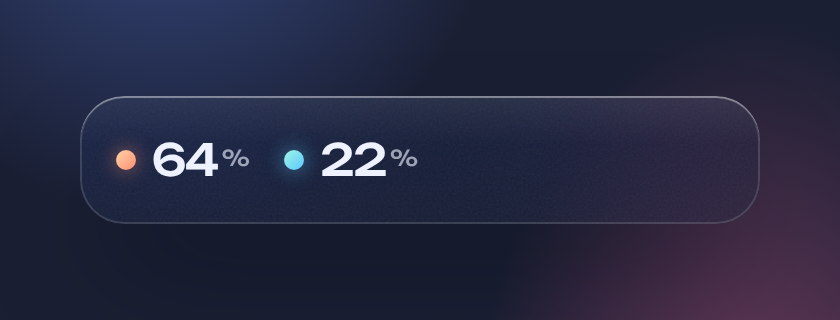
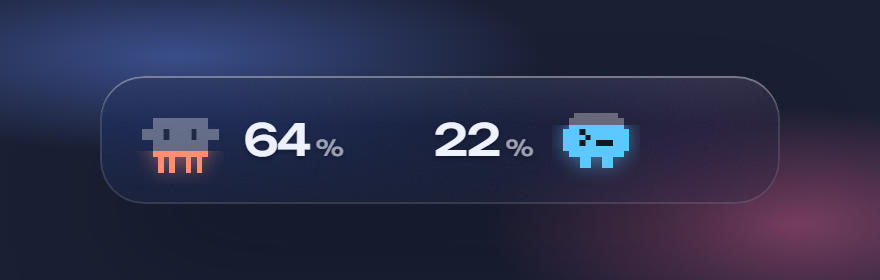
Readable README, friendlier installer, current screenshots
- README rewritten for someone new: what it shows, how to install (release
  or from source, with exact winget commands), how to use it, what it needs
  from your accounts, privacy table and troubleshooting.
- install.ps1 adds ~/.cargo/bin to PATH, checks Node, Rust and the C++
  build tools with the exact command for each, and closes a running copy.
- New screenshots from the mock data (?compact=1 opens the preview folded).
- AGENTS.md describes the current state and rules.

Changed region(s): [[0.0, 0.0857, 0.8667, 0.6857], [0.1238, 0.5714, 1.0, 0.8857], [0.8667, 0.3143, 0.8976, 0.4]]

diff --git a/src/main.ts b/src/main.ts
@@ -15,7 +15,9 @@ const KIND_LABEL = { codex: "Codex", "codex-sub": "Subagente de Codex", "claude-
 
 const root = document.getElementById("app")!;
 let last: Snapshot | null = null;
-let compact = false;
+// `?compact=1` opens the browser preview already folded (used for README screenshots).
+let compact = new URLSearchParams(location.search).has("compact");
+if (compact) document.body.classList.add("compact");
 let firstPaint = true;
 
 // Which environment tab is open ("all" or an environment id), remembered per viewer.

diff --git a/README.md b/README.md
@@ -1,76 +1,130 @@
 # Agent Gauge
 
-Un widget de escritorio de cristal ahumado, siempre visible, que muestra cuánto te queda en **Claude Code** y en **Codex**, y qué sesiones de ambos están corriendo ahora mismo en tu ordenador.
+Un widget de escritorio, siempre visible y de cristal esmerilado, para quien trabaja con **Claude Code** y **Codex** a la vez. Te dice de un vistazo cuánto te queda en cada cuenta y qué agentes están trabajando ahora mismo, en tu ordenador, en tus servidores por SSH y en la nube.
 
-![Vista normal, cerca del límite y sin datos](docs/preview.png)
+<p align="center">
+  <img src="docs/preview.png" alt="Agent Gauge: uso de Claude Code y Codex, y proyectos con sus agentes" width="400">
+</p>
 
-![Modo compacto](docs/preview-compact.png)
+<p align="center">
+  <img src="docs/preview-compact.png" alt="Modo compacto: cada bichito se rellena con lo que te queda" width="400">
+</p>
 
-## Qué enseña
+## Qué te enseña
 
-- **Un medidor por cuenta.** Muestra el % usado de la sesión de 5 horas, cuándo se renueva y el % del límite semanal.
-- **Proyección de ritmo.** La línea punteada sobre el arco marca dónde acabarás al renovarse la sesión si sigues al ritmo actual. Si vas camino de pasarte, el arco se vuelve rojo y te dice en cuánto tiempo llegarás al límite.
-- **Tokens de las últimas 5 horas**, contados a partir de los registros locales.
-- **Sesiones en marcha.** Cada `claude` o `codex` abierto aparece con su carpeta, su CPU y cuánto tiempo lleva. El punto late cuando la sesión está trabajando.
-- **Modo compacto.** El botón ⌃ (visible al pasar el ratón) reduce el widget a una píldora con los dos porcentajes.
-
-El widget se arrastra desde la parte superior. Se oculta con ✕ y vuelve con el icono de la barra de menús o de la bandeja, donde también puedes activar **Abrir al iniciar sesión**.
+- **Cuánto has gastado** de la sesión de 5 horas de Claude Code y de Codex, cuándo se renueva y, al pasar el ratón, el límite semanal, los tokens y el ritmo que llevas. Si a este ritmo vas a llegar al límite antes de la renovación, el arco se pone rojo y te dice cuándo.
+- **Tus proyectos activos**, cada uno con su "jefe" (el chat de Claude que manda) y su "cuadrilla" (los Codex y subagentes que ha lanzado). Mientras trabajan, el jefe da latigazos de dibujos animados y la cuadrilla suda. Al pasar el ratón ves quién es quién.
+- **Dónde corre cada cosa**, con pestañas: este PC, cada servidor al que entras por SSH y la nube de Claude (sesiones sobre tus repositorios de GitHub).
+- **Agentes dormidos**: lo que trabajó en las últimas 24 horas sigue saliendo, con los ojos cerrados, para que sepas qué tienes abierto.
+- **Lo saturado que está cada chat**: una barrita con el % de contexto usado, que se pone roja cuando toca empezar uno nuevo.
+- **Modo compacto**: con el botón ⌃ el widget se queda en una píldora. Cada bichito está vaciado y se rellena de abajo arriba con lo que te queda.
 
 ## Instalar
 
-### Opción A: descargar el instalador (la más fácil)
+### Opción A: descargar el instalador
 
-Ve a **Releases** y descarga el que corresponda a tu sistema:
+En la página de **Releases** del repositorio, descarga el archivo de tu sistema:
 
 | Sistema | Archivo |
 |---|---|
+| Windows | `Agent.Gauge_*_x64-setup.exe` |
 | macOS con Apple Silicon | `Agent.Gauge_*_aarch64.dmg` |
 | macOS con Intel | `Agent.Gauge_*_x64.dmg` |
-| Windows | `Agent.Gauge_*_x64-setup.exe` |
 | Linux | `.AppImage` o `.deb` |
 
-Los instaladores los genera el workflow `.github/workflows/release.yml` al subir una etiqueta:
+La app no está firmada, así que la primera vez el sistema avisa:
 
-```bash
-git tag v0.1.0
-```
-
-```bash
-git push origin v0.1.0
-```
-
-> En macOS la app no está firmada. La primera vez, haz clic derecho sobre ella y elige **Abrir**.
+- **Windows:** en la ventana azul de SmartScreen, pulsa **Más información** y luego **Ejecutar de todas formas**.
+- **macOS:** haz clic derecho sobre la app y elige **Abrir**.
 
 ### Opción B: compilar desde el código
 
-Necesitas Node 20+ y Rust.
+Descarga el repositorio y ejecuta el script de tu sistema. Si te falta algo, el script te dice exactamente qué instalar.
 
-macOS o Linux:
-
-```bash
-./scripts/install.sh
-```
-
-Windows (PowerShell):
+**Windows** (PowerShell, desde la carpeta del repositorio):
 
 ```powershell
 ./scripts/install.ps1
 ```
 
-## De dónde salen los datos
+Necesitas Node 20+, Rust y las herramientas de C++ de Visual Studio. Si no los tienes:
 
-Los registros se procesan en local. El widget usa tu sesión de Claude Code para consultar los límites de Anthropic y funciona sin claves de API.
+```powershell
+winget install OpenJS.NodeJS.LTS
+```
 
-| Dato | Fuente |
+```powershell
+winget install Rustlang.Rustup
+```
+
+```powershell
+winget install Microsoft.VisualStudio.2022.BuildTools --override "--passive --wait --add Microsoft.VisualStudio.Workload.VCTools --includeRecommended"
+```
+
+Después abre una terminal nueva y vuelve a ejecutar el script.
+
+**macOS o Linux:**
+
+```bash
+./scripts/install.sh
+```
+
+Necesitas Node 20+ y Rust (`curl https://sh.rustup.rs -sSf | sh`). En Debian/Ubuntu, además: `sudo apt install libwebkit2gtk-4.1-dev libayatana-appindicator3-dev librsvg2-dev build-essential`.
+
+## Usarlo
+
+- **Abrirlo:** desde el menú Inicio, el acceso directo del escritorio (Windows) o Aplicaciones (macOS). Aparece arriba a la derecha.
+- **Moverlo:** arrástralo desde la franja de arriba.
+- **El icono de la bandeja** (junto al reloj; en Windows puede estar dentro de la flecha ^):
+  - clic izquierdo: muestra u oculta el widget;
+  - clic derecho: **Mostrar u ocultar**, **Abrir al iniciar sesión** y **Salir**.
+- La **✕** del widget solo lo oculta. Para cerrarlo del todo, usa **Salir**.
+- Para que arranque solo al encender el ordenador, marca **Abrir al iniciar sesión** en ese menú.
+- Cuando no lo estás usando se queda translúcido. Al hacer clic dentro se vuelve más opaco para leerlo mejor.
+
+## Qué necesita de tus cuentas
+
+El widget no usa claves de API: aprovecha los inicios de sesión que ya tienes.
+
+| Para ver… | Necesitas |
 |---|---|
-| Límites de Codex | Los mismos que `/status`: se piden a OpenAI (`chatgpt.com/backend-api/wham/usage`) con el login que Codex ya guarda en `~/.codex/auth.json`, como mucho una vez por minuto. Si falla, se usa el último `rate_limits` de `~/.codex/sessions/**/rollout-*.jsonl` |
-| Límites de Claude Code | El mismo endpoint que usa `/usage` en Claude Code, con el login que ya tienes (Llavero en macOS, `~/.claude/.credentials.json` en Linux y Windows). Las consultas se guardan en caché durante un minuto. |
-| Tokens de Claude Code | `~/.claude/projects/**/*.jsonl` |
-| Chats activos | Metadatos de los registros de Claude Code y Codex con actividad en los últimos 10 minutos |
+| El uso de Claude Code y tus sesiones en la nube | Haber iniciado sesión en Claude Code (con el comando `claude` o desde la app de escritorio de Claude) |
+| El uso de Codex | Haber iniciado sesión en Codex (`codex login`) |
+| Los Codex de un servidor SSH | Que ese servidor acepte tu clave SSH sin contraseña (ver abajo) |
 
-El endpoint de límites de Claude es privado y podría cambiar. Si falla, el widget lo indica y sigue mostrando los tokens locales. En Windows y Linux, el widget puede renovar el token con Anthropic y guardar los campos renovados de forma atómica, conservando el resto del archivo de credenciales. Si falla la renovación, te pide abrir Claude Code y volver a iniciar sesión. En macOS, el acceso al Llavero es de solo lectura y el widget te pide abrir `claude` cuando caduca la sesión.
+**Servidores por SSH.** Cuando trabajas con Claude sobre un servidor por SSH, el widget le pregunta qué Codex tiene en marcha. Solo puede entrar con tu clave, nunca con contraseña. Si el servidor todavía no la acepta, autorízala una vez (te pedirá la contraseña del servidor):
 
-Puedes cambiar las carpetas con las variables `CLAUDE_CONFIG_DIR` y `CODEX_HOME`.
+```powershell
+type $env:USERPROFILE\.ssh\id_ed25519.pub | ssh usuario@servidor "mkdir -p ~/.ssh && cat >> ~/.ssh/authorized_keys"
+```
+
+## Privacidad: qué lee y a dónde lo envía
+
+Todo se procesa en tu ordenador. De tus conversaciones solo se leen metadatos (título, carpeta, tokens, horas), nunca el texto.
+
+| Dato | De dónde sale | Se envía a |
+|---|---|---|
+| Uso de Claude Code | El mismo servicio que `/usage`, con tu login de Claude Code | Anthropic |
+| Sesiones de Claude en la nube | El mismo servicio con el que Claude Code lista tus sesiones web | Anthropic |
+| Uso de Codex | El mismo servicio que `/status`, con el login de `~/.codex/auth.json` | OpenAI |
+| Chats y subagentes locales | `~/.claude/projects` y `~/.codex/sessions` | Nadie |
+| Codex en servidores SSH | Un script de solo lectura que se ejecuta por SSH en tu servidor | Tu servidor |
+
+- El login de Codex solo se lee; nunca se renueva ni se modifica.
+- El de Claude se renueva cuando caduca, igual que hace Claude Code, y se guarda sin tocar el resto del archivo. En macOS, el acceso al Llavero es de solo lectura.
+- Las carpetas se pueden cambiar con las variables `CLAUDE_CONFIG_DIR` y `CODEX_HOME`.
+
+Los servicios de uso de Anthropic y OpenAI no son públicos y podrían cambiar. Si alguno falla, el widget lo dice y sigue mostrando lo demás.
+
+## Si algo no sale
+
+| Ves… | Qué pasa y qué hacer |
+|---|---|
+| "Anthropic limita las consultas ahora mismo" | Anthropic ha frenado las consultas de uso. El widget espera solo (de 2 a 15 minutos) y vuelve a mostrar el % en cuanto puede. No abras dos copias del widget a la vez. |
+| "La sesión de Claude caducó del todo" | Abre Claude Code y vuelve a iniciar sesión. |
+| El % de Codex no cambia | Comprueba que has iniciado sesión con `codex login`. |
+| No aparece tu servidor SSH | Autoriza tu clave en el servidor (ver arriba). Solo salen servidores con un chat de las últimas 24 horas. |
+| Un proyecto no aparece | Solo se muestran los que han tenido actividad en las últimas 24 horas. En la pestaña "Todos" salen 4 como mucho: el resto está en su pestaña. |
 
 ## Desarrollo
 
@@ -79,33 +133,50 @@ npm install
 ```
 
 ```bash
-npm run dev          # solo la interfaz en el navegador, con datos de ejemplo
+npm run dev        # solo la interfaz en el navegador, con datos de ejemplo
 ```
 
 ```bash
-npm run app:dev      # la app de escritorio completa
+npm run app:dev    # la app de escritorio completa
 ```
 
-Para ver otros estados en el navegador, añade `?demo=hot` (Claude cerca del límite) o `?demo=empty` (sin datos) a `http://localhost:1420/`.
+En el navegador puedes ver otros estados añadiendo a `http://localhost:1420/`: `?demo=hot` (Claude cerca del límite), `?demo=empty` (sin datos) o `?compact=1` (modo compacto).
 
-Tests del backend:
+Tests y lint del backend:
 
 ```bash
-cd src-tauri && cargo test
+cd src-tauri && cargo test && cargo clippy --all-targets -- -D warnings
 ```
 
-Estructura:
+Para publicar instaladores de todos los sistemas, sube una etiqueta. El workflow `.github/workflows/release.yml` los compila y los deja en un borrador de Release:
+
+```bash
+git tag v0.2.0
+```
+
+```bash
+git push origin v0.2.0
+```
+
+### Estructura
 
 ```
-src/                 interfaz (TypeScript + CSS, sin framework)
-  main.ts            render y polling (cada 20 s)
-  gauge.ts           el medidor SVG
-  format.ts          tiempos, tokens y proyección de ritmo
-  mock.ts            datos de ejemplo para el navegador
+src/                    interfaz (TypeScript + CSS, sin framework)
+  main.ts               render, pestañas, modo compacto y lectura cada 20 s
+  critters.ts           los bichitos en pixel art y el látigo
+  gauge.ts              el arco de cada cuenta
+  format.ts             tiempos, tokens y proyección de ritmo
+  mock.ts               datos de ejemplo para el navegador
 src-tauri/src/
-  lib.rs             ventana, cristal nativo, bandeja, autoarranque
-  claude.rs          límites y tokens de Claude Code
-  codex.rs           límites y tokens de Codex
-  chats.rs           selección de chats activos de Claude y Codex
-  model.rs           tipos compartidos (espejo de src/types.ts)
+  lib.rs                ventana, cristal, bandeja, autoarranque
+  claude.rs             uso de Claude Code y renovación del login
+  codex.rs              uso de Codex a partir de sus registros
+  codex_live.rs         uso de Codex en directo (como /status)
+  cloud_claude.rs       sesiones de Claude en la nube, por repositorio
+  chats_claude.rs       chats y subagentes locales de Claude
+  chats_codex.rs        chats y subagentes locales de Codex
+  chats_remote.rs       Codex en servidores SSH (+ remote_codex.sh)
+  chats.rs              agrupación por entorno y proyecto (jefe y cuadrilla)
+  model.rs              tipos compartidos (espejo de src/types.ts)
+docs/superpowers/       diseño y plan de implementación
 ```

diff --git a/AGENTS.md b/AGENTS.md
@@ -1,43 +1,36 @@
 # Instrucciones para agentes (Codex, Claude Code…)
 
-Este repo es **Agent Gauge**, un widget de escritorio en Tauri 2 (Rust + TypeScript sin framework) que muestra el uso de Claude Code y Codex, y las sesiones en marcha. Lee `README.md` para el qué y `docs/superpowers/specs/2026-11-25-agent-gauge-design.md` para el porqué de las decisiones.
+Este repo es **Agent Gauge**, un widget de escritorio en Tauri 2 (Rust + TypeScript sin framework). Muestra el uso de Claude Code y Codex y los proyectos con sus agentes, por entorno (este PC, servidores SSH, nube de Claude).
 
-## Estado actual
+- Qué hace y cómo se instala: `README.md`.
+- Por qué está hecho así: `docs/superpowers/specs/2026-11-25-agent-gauge-v2-design.md` (y la v1 en el mismo directorio).
+- Cómo se construyó, tarea a tarea: `docs/superpowers/plans/2026-11-25-agent-gauge-v2.md`.
 
-Se inicializó en un contenedor Linux sin pantalla. Allí:
+## Estado
 
-- `cargo build`, `cargo clippy --all-targets` (0 avisos) y `cargo test` (5 tests) pasan.
-- `npm run build` pasa y la interfaz se revisó con capturas en el navegador usando datos de ejemplo.
-- **Nunca se ha abierto la ventana real ni se ha leído una cuenta real.** Esa es tu primera tarea.
-
-## Tu tarea: dejarlo funcionando en esta máquina
-
-1. Requisitos: Node 20+ y Rust estable. En Linux, además: `libwebkit2gtk-4.1-dev libayatana-appindicator3-dev librsvg2-dev`.
-2. Ejecuta `npm install` y luego `npm run app:dev`. Comprueba lo siguiente:
-   - La ventana sale sin bordes, transparente, siempre encima y en la esquina superior derecha. En macOS no debe aparecer en el Dock.
-   - En macOS y Windows se ve el escritorio difuminado detrás (vibrancy o acrylic). Si no, revisa `apply_glass` en `src-tauri/src/lib.rs`.
-   - La ventana se puede arrastrar desde la franja superior.
-   - La ventana se adapta a la altura del contenido (`fitWindow` en `src/api.ts`).
-   - El icono de la bandeja permite mostrar u ocultar la ventana, activar "Abrir al iniciar sesión" y salir.
-3. **Datos reales.** Compara lo que muestra el widget con `/usage` en Claude Code y `/status` en Codex. Los porcentajes y las horas de renovación deben coincidir.
-   - Claude: `src-tauri/src/claude.rs`. El endpoint `https://api.anthropic.com/api/oauth/usage` no es público. Si la forma de la respuesta no coincide con `ApiUsage`, ajusta el struct. Hazlo tolerante: todo `Option`.
-   - Codex: `src-tauri/src/codex.rs`. Comprueba el formato real de `rate_limits` en `~/.codex/sessions/…`. Si tu versión usa otros nombres de campos, añádelos y escribe un test con una línea real anonimizada.
-4. **Procesos.** Abre un `claude` y un `codex` en dos terminales y comprueba que aparecen una sola vez cada uno, con su carpeta. Las reglas están en `classify` dentro de `src-tauri/src/procs.rs`. Las apps de escritorio de Claude y Codex se excluyen a propósito.
-5. Ejecuta `./scripts/install.sh` (o `scripts/install.ps1` en Windows) y comprueba que la app instalada arranca.
+- Probado de verdad en Windows 11 con cuentas reales de Claude (Pro) y Codex (Plus): ventana, cristal, bandeja, instalador NSIS y datos.
+- macOS y Linux compilan en CI, pero no se han probado a mano.
+- Los formatos que se leen (registros de Claude Code y Codex, servicios de uso, sesiones en la nube, archivos de sesión de la app de escritorio) son internos y cambian entre versiones. Cada lector es tolerante y tiene tests con una muestra real anonimizada. Si algo deja de salir, empieza por ahí.
 
 ## Reglas del proyecto
 
-- El login de Codex (`~/.codex/auth.json`) solo se lee y solo se envía a chatgpt.com para pedir los límites (`src-tauri/src/codex_live.rs`). Nunca se renueva ni se reescribe.
-- En Windows y Linux, el widget puede renovar el token OAuth de Claude. Guarda los campos renovados de forma atómica y conserva los demás campos del archivo. En macOS, el acceso al Llavero es de solo lectura.
-- Envía las credenciales únicamente a los endpoints de uso y renovación de Anthropic. Los registros de los chats se procesan localmente.
-- Si cambias `src-tauri/src/model.rs`, actualiza también `src/types.ts`.
-- Los textos de la interfaz están en español, en frase normal (sin MAYÚSCULAS), y dicen qué hacer cuando algo falla.
-- Diseño: un solo elemento llamativo, los arcos. No añadas tarjetas, sombras ni animaciones decorativas. La paleta y la tipografía están en las variables de `:root` en `src/styles.css`.
-- Antes de dar algo por terminado, ejecuta `npm run build`, `cargo clippy --all-targets -- -D warnings` y `cargo test` en `src-tauri/`.
+- **Credenciales.**
+  - El login de Codex (`~/.codex/auth.json`) solo se lee y solo se envía a chatgpt.com para pedir los límites (`codex_live.rs`). Nunca se renueva ni se reescribe.
+  - En Windows y Linux, el widget puede renovar el token OAuth de Claude (`claude.rs`). Guarda los campos renovados de forma atómica y conserva los demás campos del archivo. En macOS, el acceso al Llavero es de solo lectura.
+  - El token de Claude solo va a Anthropic: uso, renovación y lista de sesiones en la nube.
+- **Conversaciones.** De los registros se leen metadatos (título, carpeta, tokens, horas). Nunca el texto.
+- **SSH.** Solo con clave (`BatchMode`), con tiempo límite, y ejecutando el script de solo lectura `remote_codex.sh`.
+- **No saturar los servicios.** Cada consulta remota tiene caché (60 s) y, ante un HTTP 429, espera más en cada intento (2 a 15 min). Un fallo nunca debe provocar un reintento en cada lectura.
+- **Tipos compartidos.** Si cambias `src-tauri/src/model.rs`, actualiza también `src/types.ts`.
+- **Textos.** La interfaz está en español, en frase normal (sin MAYÚSCULAS), y cada error dice qué hacer.
+- **Diseño.** Los protagonistas son los bichitos (`src/critters.ts`, pixel art propio, no las mascotas oficiales) y sus arcos. Nada de tarjetas ni sombras decorativas. Toda animación se para con `prefers-reduced-motion`. Los tokens de color y tipografía están en `:root` de `src/styles.css`.
+- **Windows.** El panel usa un radio de 8 px porque el acrylic rellena toda la ventana y Windows 11 la redondea a 8 px. Lo que sobresalga del panel se vería con un rectángulo borroso alrededor.
+- **Antes de dar algo por terminado**, ejecuta `npm run build`, y en `src-tauri/` `cargo clippy --all-targets -- -D warnings` y `cargo test`.
 
-## Ideas pendientes (no hechas)
+## Ideas pendientes
 
+- Atajo de teclado global para mostrar u ocultar el widget.
 - Notificación del sistema al pasar del 90 % de la sesión.
-- Opacidad ajustable desde el menú de la bandeja.
-- Recordar la posición de la ventana entre arranques (hoy siempre se coloca arriba a la derecha).
-- Firmar y notarizar la app de macOS en el workflow de release.
+- Recordar la posición de la ventana entre arranques.
+- Sesiones de Codex en la nube (hoy no hay datos locales de ellas).
+- Firmar la app (Windows y macOS) en el workflow de release.
